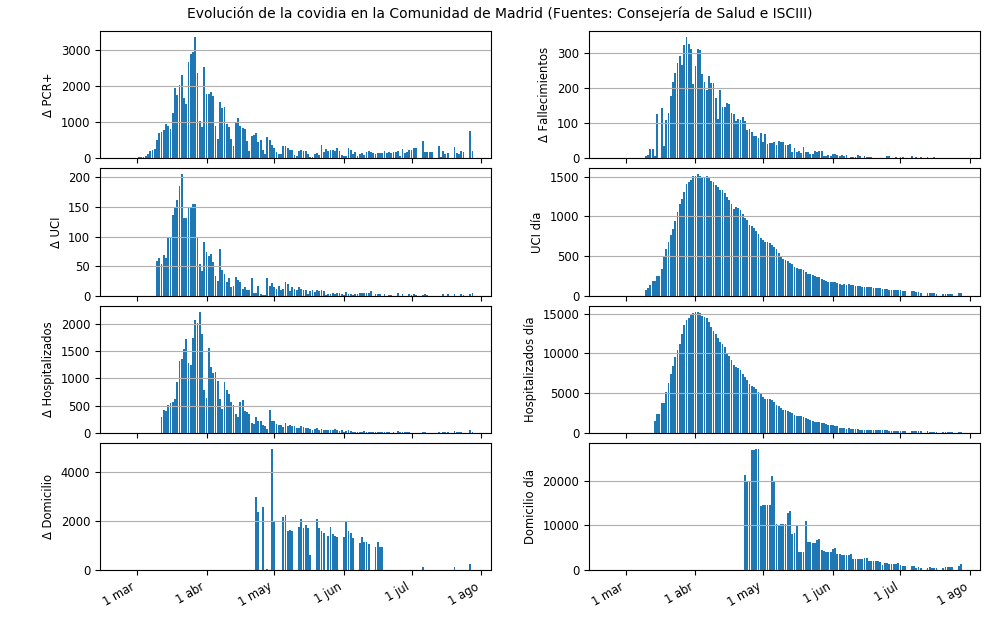
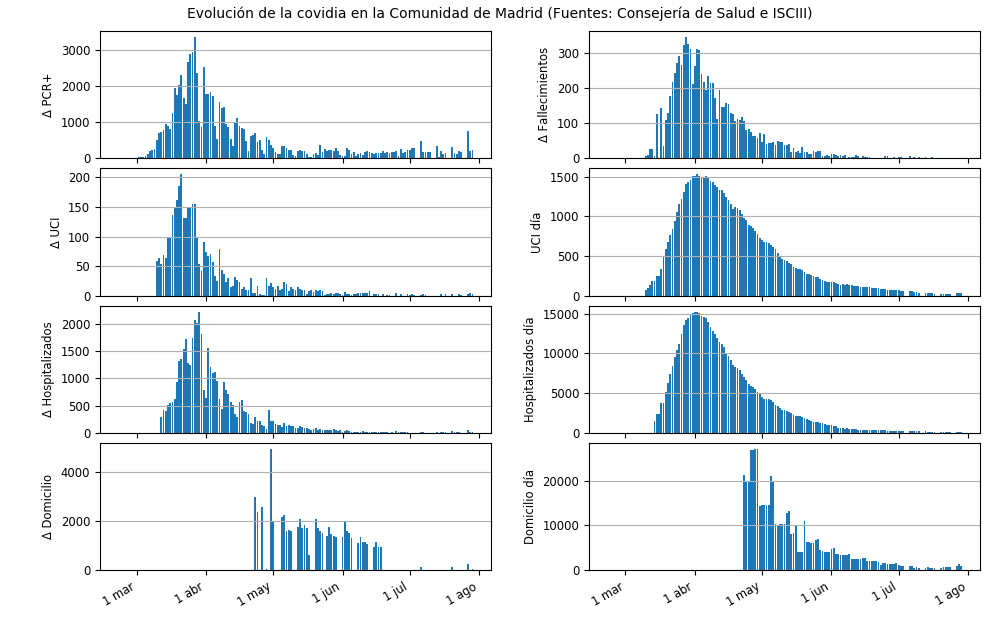
Ajuste de los primeros valores de descarga_cam

diff --git a/covidia-cam/descarga_cam.py b/covidia-cam/descarga_cam.py
@@ -25,7 +25,7 @@ from descargabib import descarga
 expnumber = re.compile(r'^ *(\d+(?: ?\. ?\d+)*)(?:[^\d/]|\s|\(|$|\.[^\d/]|\.\s|\.$)', re.M)
 
 expfecha = re.compile(r'(\d\d)/(\d\d)/(\d\d\d\d)')
-expacum = re.compile(r'\n2 \n6 \n10 \n[\d \n]+')
+expacum = re.compile(r'\n2 \n7 \n11 \n[\d \n]+')
 expnumber2 = re.compile(r'\d\d\d\d\d+')
 
 
